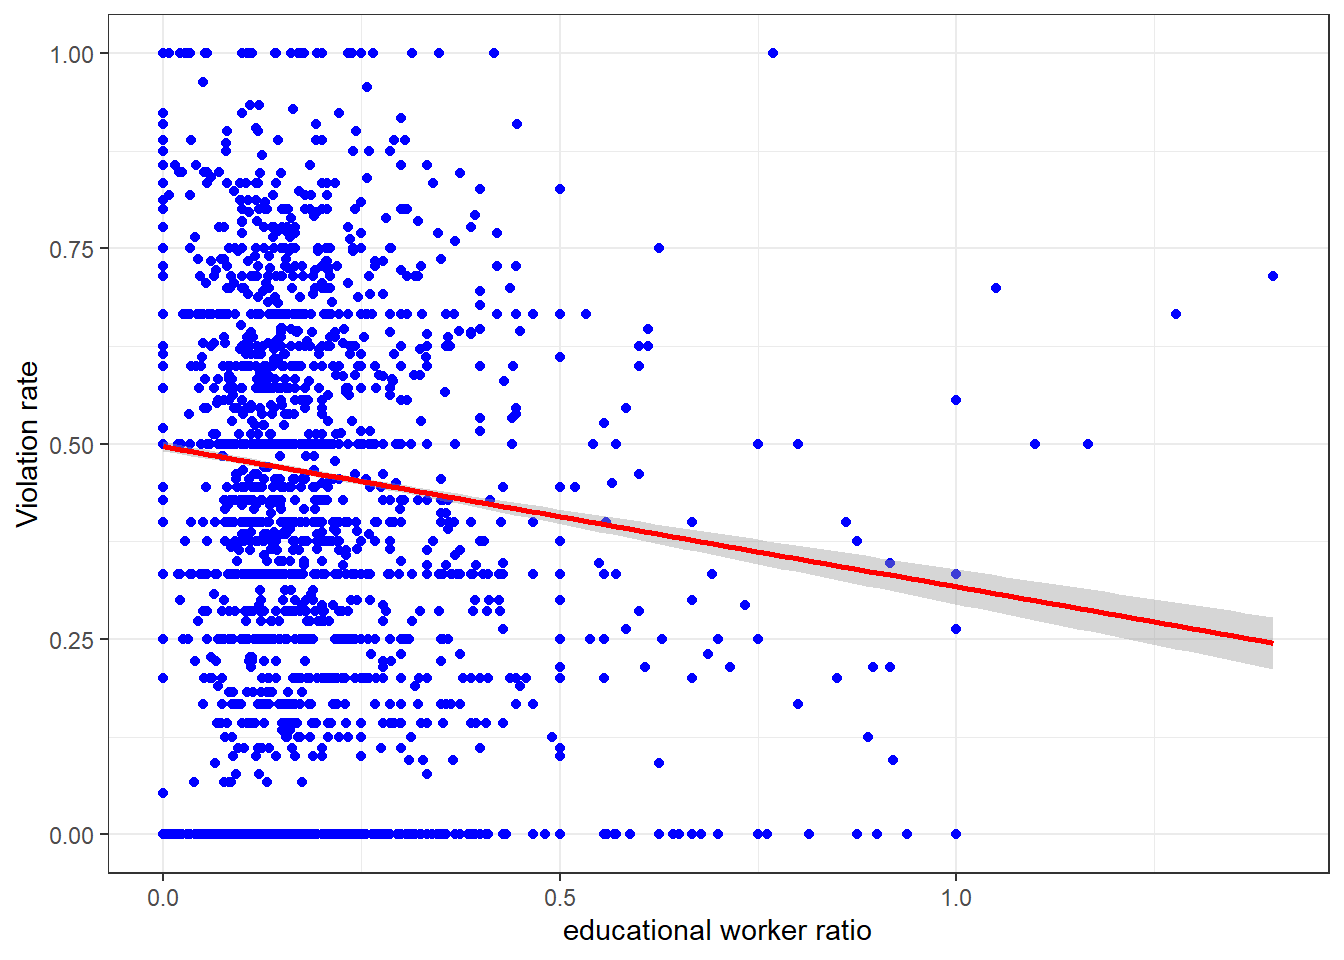
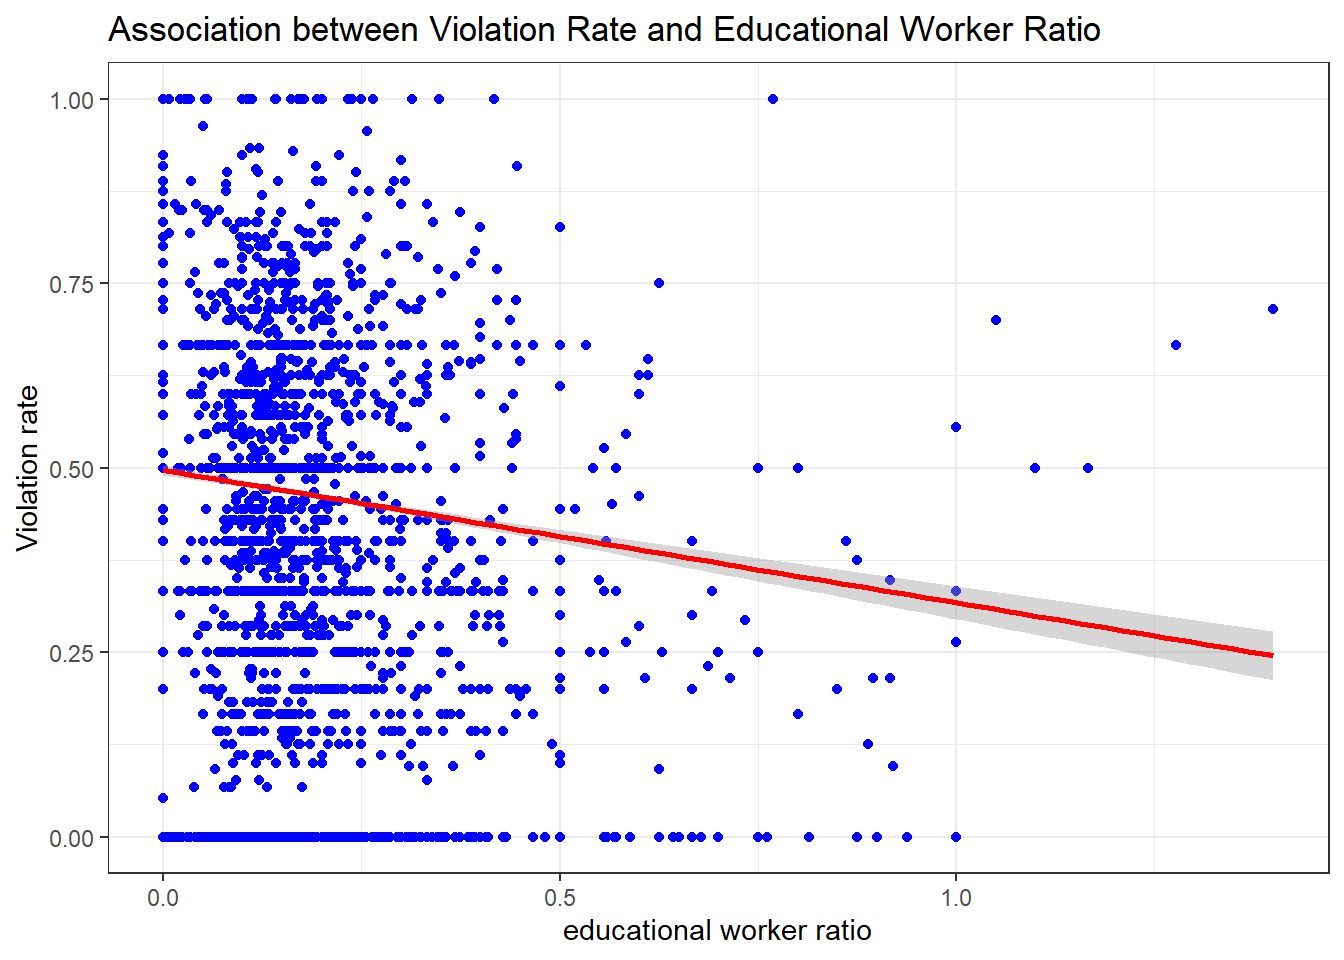
Add diagnostics to the final model

diff --git a/linear.html b/linear.html
@@ -879,11 +879,17 @@ full_lm_out %&gt;%
 </tr>
 </tbody>
 </table>
+<p>In addition, we diagnose the revised model again to confirm there’s
+no violation against the residuals assumption:</p>
+<pre class="r"><code>#run regression diagnostics
+check_model(full_lm_out, check = c(&quot;linearity&quot;, &quot;outliers&quot;, &quot;qq&quot;, &quot;normality&quot;))</code></pre>
+<p><img src="linear_files/figure-html/unnamed-chunk-9-1.png" width="672" /></p>
 </div>
 </div>
 <div id="model-validation" class="section level2">
 <h2><strong>Model validation</strong></h2>
-<p>We used 5-fold cross validation to test the model performance.</p>
+<p>We used 5-fold cross validation to test the performance of the
+revised model full_lm_out.</p>
 <pre class="r"><code>library(caret)
 # Use 5-fold validation and create the training sets
 train = trainControl(method = &quot;cv&quot;, number = 5)
@@ -905,11 +911,11 @@ predictive ability.</p>
 ## 
 ## No pre-processing
 ## Resampling: Cross-Validated (5 fold) 
-## Summary of sample sizes: 13159, 13160, 13159, 13159, 13159 
+## Summary of sample sizes: 13159, 13160, 13159, 13158, 13160 
 ## Resampling results:
 ## 
-##   RMSE       Rsquared   MAE      
-##   0.2431557  0.1565823  0.1982754
+##   RMSE       Rsquared  MAE      
+##   0.2431576  0.156342  0.1982926
 ## 
 ## Tuning parameter &#39;intercept&#39; was held constant at a value of TRUE</code></pre>
 </div>
@@ -1052,7 +1058,7 @@ out_df %&gt;%
   geom_smooth(method = &#39;lm&#39;, se = TRUE, color = &#39;red&#39;) +
   labs(x = &quot;educational worker ratio&quot;, y = &quot;Violation rate&quot;,
        title = &quot;Association between Violation Rate and Educational Worker Ratio&quot;)</code></pre>
-<p><img src="linear_files/figure-html/unnamed-chunk-12-1.png" width="672" /></p>
+<p><img src="linear_files/figure-html/unnamed-chunk-13-1.png" width="672" /></p>
 </div>
 </div>
 
